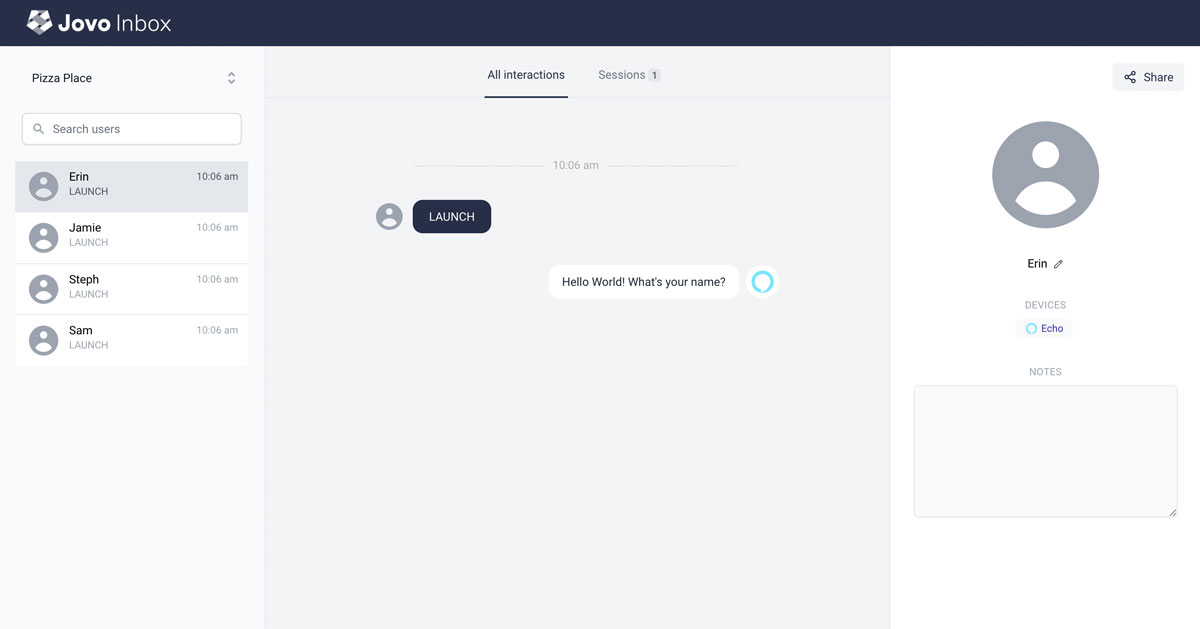
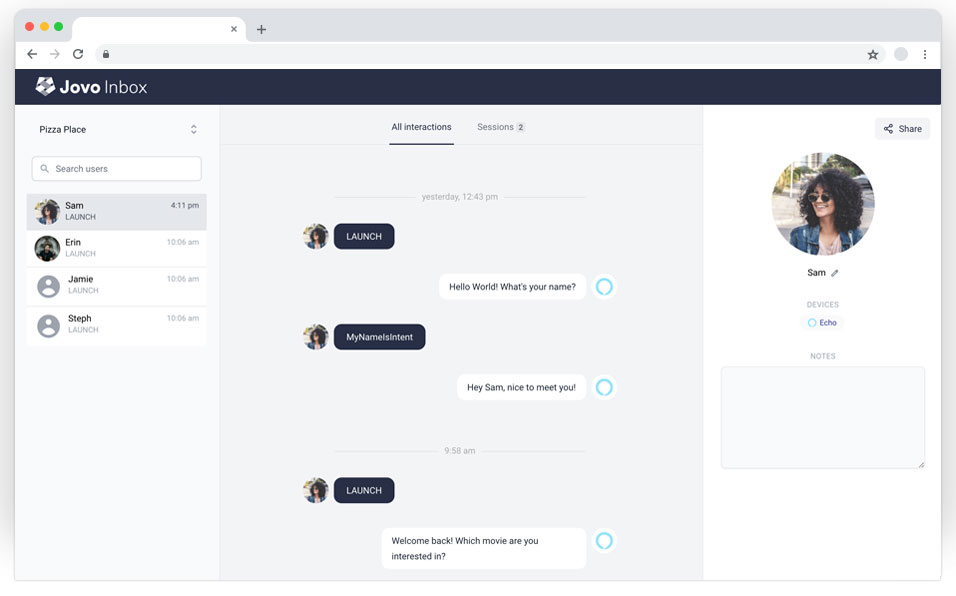
:pencil2: Update images

diff --git a/news/2021-02-04-jovo-inbox-v3-4/README.md b/news/2021-02-04-jovo-inbox-v3-4/README.md
@@ -69,11 +69,11 @@ APL document taken from [apl.ninja](https://apl.ninja/DanielMittendorf/EMjmC6bU)
 
 For a better overview during QA, you can even upload profile images and edit the name of a user to easily see who on the team has been testing the app.
 
-![Jovo Inbox Change Avatar](./img/jovo-inbox-json.jpg "A screenshot showing how an avatar can be changed in the Jovo Inbox")
+![Jovo Inbox Change Avatar](./img/jovo-inbox-change-avatar.jpg "A screenshot showing how an avatar can be changed in the Jovo Inbox")
 
 This makes it a little easier to coordinate (and friendly):
 
-![Jovo Inbox with Avatar](./img/jovo-inbox-json.jpg "A screenshot showing the Jovo Inbox with a personalized avatar")
+![Jovo Inbox with Avatar](./img/jovo-inbox-with-avatar.jpg "A screenshot showing the Jovo Inbox with a personalized avatar")
 
 
 
